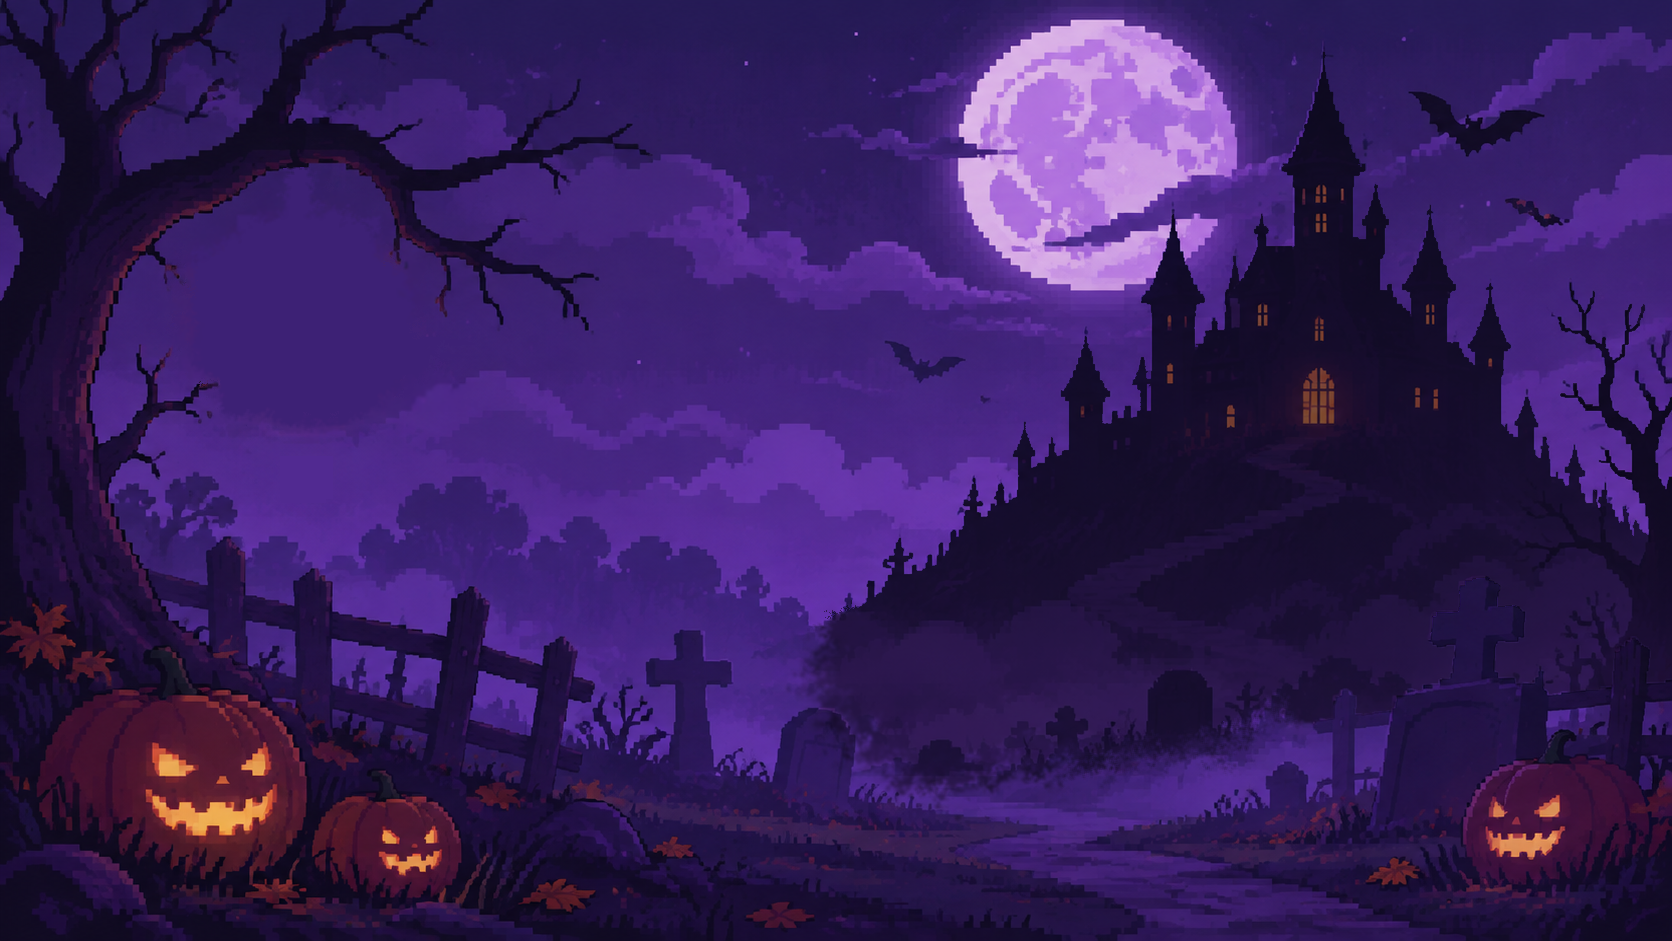
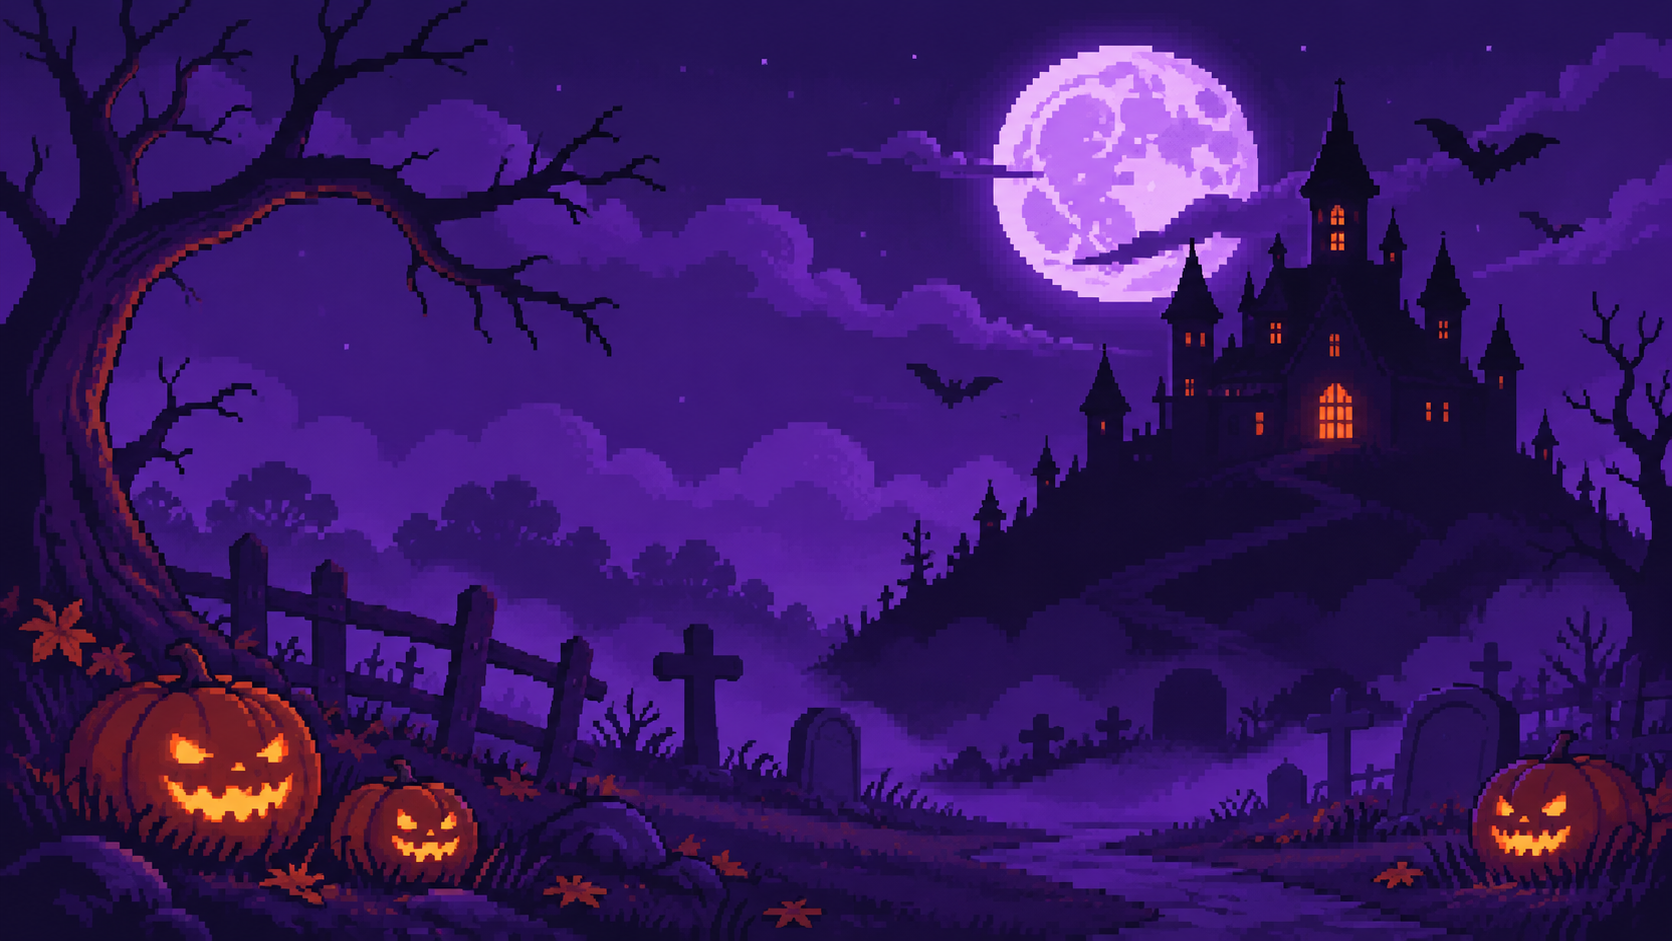
mini update menu

diff --git a/game/scenes/Menu.cs b/game/scenes/Menu.cs
@@ -16,8 +16,15 @@ public partial class Menu : Node2D
 	{
 		PlayBtn.Pressed += PlayBtnOnPressed;
 		QuitBtn.Pressed += QuitBtnOnPressed;
+		
+		PlayBtn.GrabFocus();
 	}
-
+	
+	public override void _Process(double delta)
+	{
+	}
+	
+	
 	private void PlayBtnOnPressed()
 	{
 		GetTree().ChangeSceneToPacked(Scene);
@@ -25,10 +32,5 @@ public partial class Menu : Node2D
 	private void QuitBtnOnPressed()
 	{
 		GetTree().Quit();
-	}
-
-
-	public override void _Process(double delta)
-	{
 	}
 }
